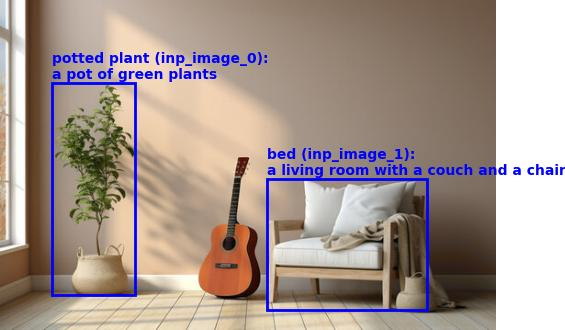
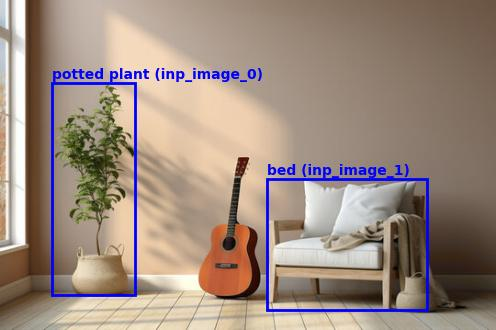
table and annotations

diff --git a/output_generation.py b/output_generation.py
@@ -30,7 +30,7 @@ def plot_image_with_annotations(master_image_data, output_dir):
     # Draw bounding boxes and annotations for each object
     for obj in master_image_data['objects']:
         bbox = obj['bbox']
-        label = f"{obj['identified_name']} ({obj['unique_id']}): \n{obj['description']}"
+        label = f"{obj['identified_name']} ({obj['unique_id']})"
         draw_bbox(ax, bbox, label, color='blue')
 
     # Save the annotated image
@@ -38,6 +38,9 @@ def plot_image_with_annotations(master_image_data, output_dir):
     plt.axis('off')
     plt.savefig(output_image_path, bbox_inches='tight', pad_inches=0)
     plt.close(fig)  # Close the figure after saving
+
+import matplotlib.pyplot as plt
+import os
 
 def generate_summary_table(master_image_data, output_dir):
     # Create a table of object data
@@ -47,26 +50,39 @@ def generate_summary_table(master_image_data, output_dir):
             obj['unique_id'],
             obj['identified_name'],
             obj['description'],
-            obj['confidence'],
+            f"{obj['confidence']:.2f}",
             obj['class'],
             obj['colors']
         ])
     
     # Plot table
-    fig, ax = plt.subplots(1, figsize=(10, len(table_data) * 0.8))
+    fig, ax = plt.subplots(figsize=(12, len(table_data) * 0.6))  # Increased figure size for clarity
     ax.axis('tight')
     ax.axis('off')
+    
+    # Create and customize table
     table = ax.table(
         cellText=table_data,
         colLabels=['Unique ID', 'Identified Name', 'Description', 'Confidence', 'Class', 'Colors'],
         cellLoc='center',
-        loc='center'
+        loc='center',
+        cellColours=[[None]*6 for _ in table_data],  # Optional: Customize cell colors if needed
+        colColours=['lightgrey']*6  # Optional: Customize column header background color
     )
+    
+    # Set font size
+    table.auto_set_font_size(False)
+    table.set_fontsize(12)
+    
+    # Auto adjust column widths
+    table.auto_set_column_width([i for i in range(len(table_data[0]))])
+    
+    # Save the table as an image with higher resolution
     image_path = master_image_data['image_path']
-    # Save the table as an image
     output_table_path = os.path.join(output_dir, f'{os.path.basename(image_path).split(".")[0]}_summary_table.jpg')
-    plt.savefig(output_table_path, bbox_inches='tight', pad_inches=0.1)
+    plt.savefig(output_table_path, bbox_inches='tight', pad_inches=0.1, dpi=300)  # Increased DPI to 300
     plt.close(fig)  # Close the figure after saving
+
 
 def final_output():
     final_mapping = load_final_mapping(FINAL_MAPPING_FILE)
